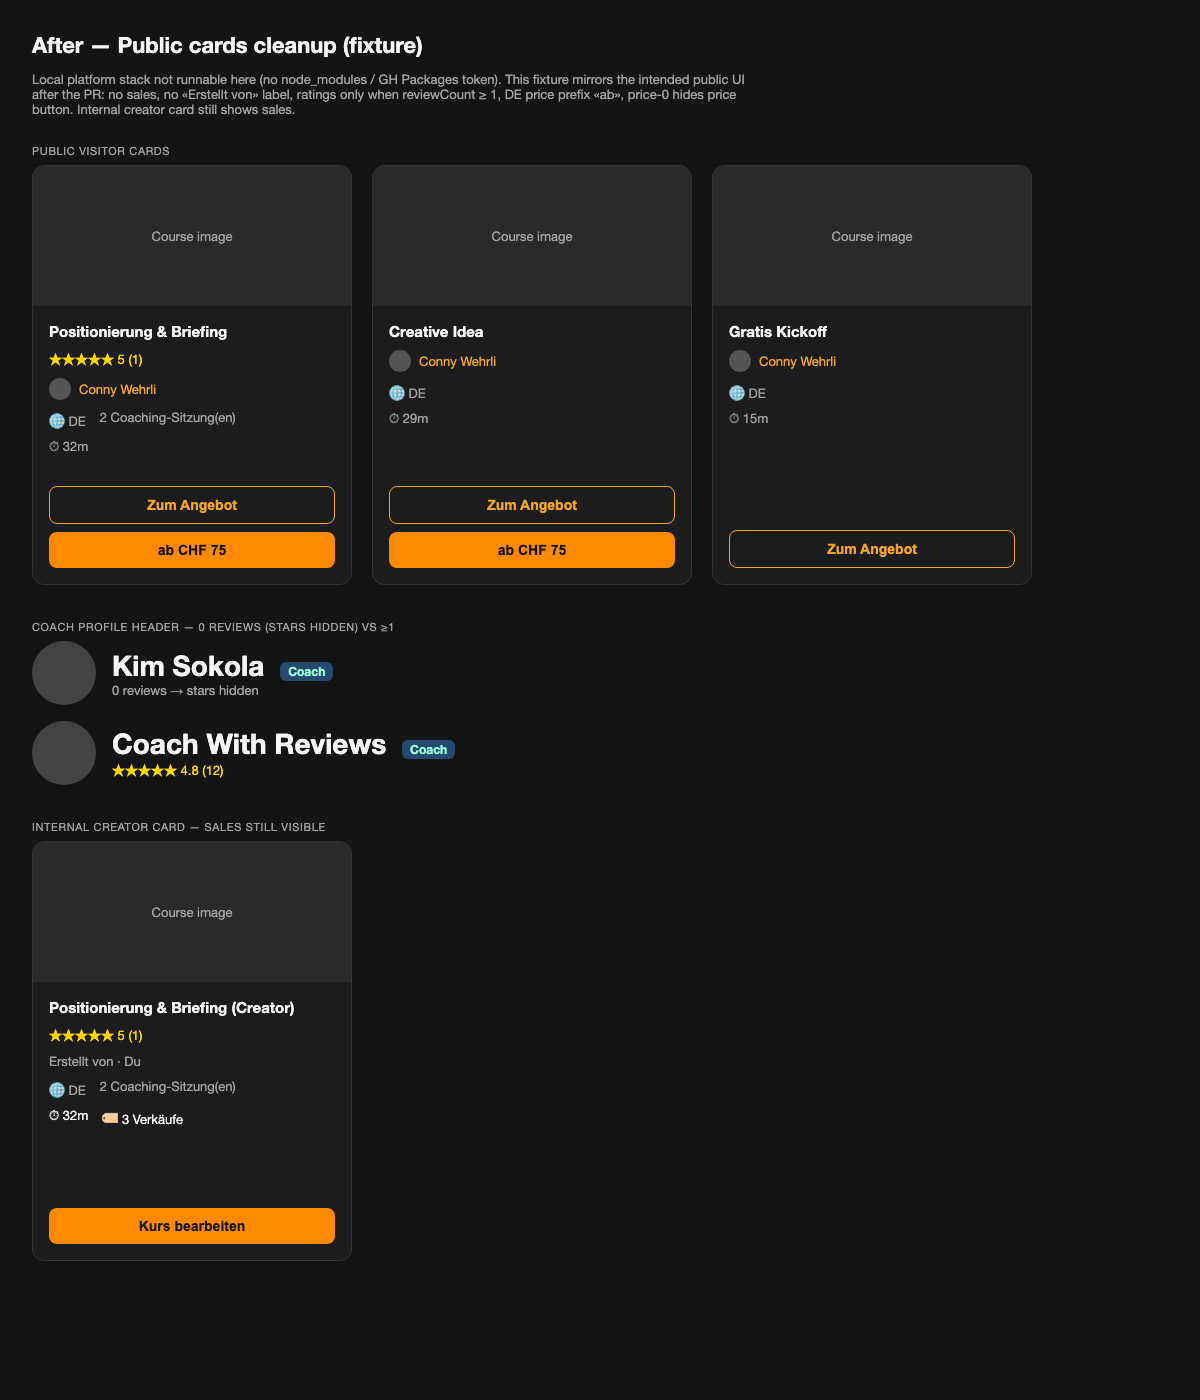
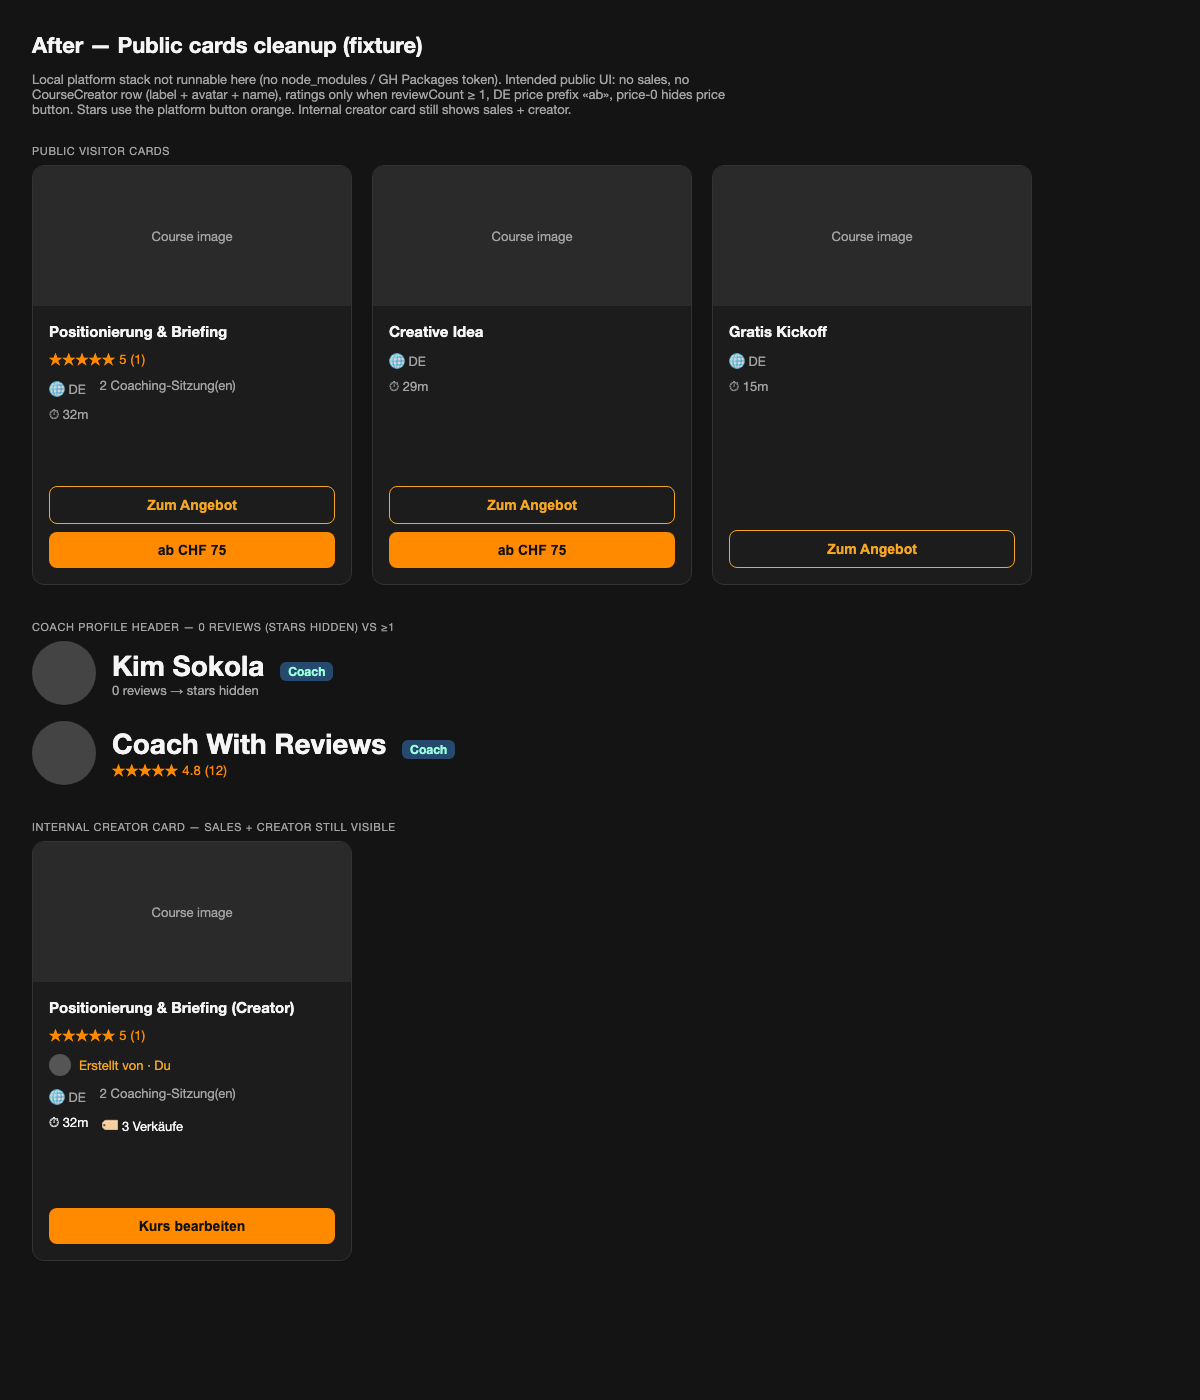
fix(ui): hide entire CourseCreator row on public cards
isPublicView now returns null so avatar and name are gone too (no gap).
Refresh after-fixture: no creator on public cards; stars use button orange.

diff --git a/docs/pr-evidence/public-cards-cleanup/after-fixture.html b/docs/pr-evidence/public-cards-cleanup/after-fixture.html
@@ -30,7 +30,8 @@
     .img { height: 140px; background: #2a2a2a; display:flex; align-items:center; justify-content:center; color:var(--muted); font-size:13px; }
     .body { padding: 16px; display:flex; flex-direction:column; gap: 10px; flex:1; }
     .title { font-weight: 700; font-size: 15px; }
-    .stars { color: gold; font-size: 13px; }
+    /* Platform accent — same orange as primary buttons */
+    .stars { color: var(--btn); font-size: 13px; letter-spacing: 0.02em; }
     .muted { color: var(--muted); font-size: 13px; }
     .creator { display:flex; align-items:center; gap:8px; font-size:13px; color: var(--accent); }
     .avatar { width: 22px; height:22px; border-radius:50%; background:#555; }
@@ -55,21 +56,20 @@
   <h1>After — Public cards cleanup (fixture)</h1>
   <p class="note">
     Local platform stack not runnable here (no node_modules / GH Packages token).
-    This fixture mirrors the intended public UI after the PR: no sales, no «Erstellt von» label,
+    Intended public UI: no sales, no CourseCreator row (label + avatar + name),
     ratings only when reviewCount ≥ 1, DE price prefix «ab», price-0 hides price button.
-    Internal creator card still shows sales.
+    Stars use the platform button orange. Internal creator card still shows sales + creator.
   </p>
 
   <div class="section">
     <div class="label">Public visitor cards</div>
     <div class="grid">
-      <!-- Card with reviews ≥ 1 -->
+      <!-- Card with reviews ≥ 1 — no creator row -->
       <div class="card">
         <div class="img">Course image</div>
         <div class="body">
           <div class="title">Positionierung &amp; Briefing</div>
           <div class="stars">★★★★★ 5 (1)</div>
-          <div class="creator"><span class="avatar"></span> Conny Wehrli</div>
           <div class="stats">
             <div class="row"><span>🌐 DE</span><span>2 Coaching-Sitzung(en)</span></div>
             <div class="row"><span>⏱ 32m</span></div>
@@ -81,13 +81,11 @@
         </div>
       </div>
 
-      <!-- Card with 0 reviews — no stars -->
+      <!-- Card with 0 reviews — no stars, no creator -->
       <div class="card">
         <div class="img">Course image</div>
         <div class="body">
           <div class="title">Creative Idea</div>
-          <!-- no stars -->
-          <div class="creator"><span class="avatar"></span> Conny Wehrli</div>
           <div class="stats">
             <div class="row"><span>🌐 DE</span></div>
             <div class="row"><span>⏱ 29m</span></div>
@@ -104,14 +102,12 @@
         <div class="img">Course image</div>
         <div class="body">
           <div class="title">Gratis Kickoff</div>
-          <div class="creator"><span class="avatar"></span> Conny Wehrli</div>
           <div class="stats">
             <div class="row"><span>🌐 DE</span></div>
             <div class="row"><span>⏱ 15m</span></div>
           </div>
           <div class="actions">
             <button class="btn btn-secondary">Zum Angebot</button>
-            <!-- price button hidden -->
           </div>
         </div>
       </div>
@@ -124,7 +120,6 @@
       <div class="big"></div>
       <div>
         <div style="font-size:28px;font-weight:700;">Kim Sokola <span class="badge">Coach</span></div>
-        <!-- 0 reviews: no stars row -->
         <div class="muted">0 reviews → stars hidden</div>
       </div>
     </div>
@@ -138,14 +133,14 @@
   </div>
 
   <div class="section">
-    <div class="label">Internal creator card — sales still visible</div>
+    <div class="label">Internal creator card — sales + creator still visible</div>
     <div class="grid">
       <div class="card internal">
         <div class="img">Course image</div>
         <div class="body">
           <div class="title">Positionierung &amp; Briefing (Creator)</div>
           <div class="stars">★★★★★ 5 (1)</div>
-          <div class="muted">Erstellt von · Du</div>
+          <div class="creator"><span class="avatar"></span> Erstellt von · Du</div>
           <div class="stats">
             <div class="row"><span>🌐 DE</span><span>2 Coaching-Sitzung(en)</span></div>
             <div class="row sales"><span>⏱ 32m</span><span>🏷 3 Verkäufe</span></div>

diff --git a/packages/ui-kit/lib/components/course-card/course-creator.tsx b/packages/ui-kit/lib/components/course-card/course-creator.tsx
@@ -9,7 +9,7 @@ interface CourseCreatorProps extends isLocalAware {
   imageUrl?: string;
   you?: boolean;
   onClickUser?: () => void;
-  /** When true (public cards), hide the «Erstellt von» / «Created by» label. */
+  /** When true (public cards), hide the entire creator row (label, avatar, name). */
   isPublicView?: boolean;
 }
 
@@ -39,14 +39,17 @@ export const CourseCreator: React.FC<CourseCreatorProps> = ({
   isPublicView = false,
 }) => {
   const dictionary = getDictionary(locale);
+
+  if (isPublicView) {
+    return null;
+  }
+
   return (
     <div className="flex flex-wrap items-center gap-1 min-h-[32px] w-full">
-      {!isPublicView && (
-        <div className="flex items-center gap-1 text-sm text-text-secondary">
-          <IconCoachingOffer size='5' data-testid="briefcase-icon" />
-          <span>{dictionary.components.courseCard.createdBy}</span>
-        </div>
-      )}
+      <div className="flex items-center gap-1 text-sm text-text-secondary">
+        <IconCoachingOffer size='5' data-testid="briefcase-icon" />
+        <span>{dictionary.components.courseCard.createdBy}</span>
+      </div>
       {!you ? (
         <Button
           size="small"

diff --git a/docs/pr-evidence/public-cards-cleanup/README.md b/docs/pr-evidence/public-cards-cleanup/README.md
@@ -17,3 +17,8 @@ Full-resolution PNGs also in Project store `media/public-cards-pr/`.
 Local platform stack could not be started on this Mac (no `node_modules` / GH Packages token).
 
 - `after-fixture.html` / `after-fixture.png` — intended public UI after this PR
+  - no CourseCreator row (label + avatar + name)
+  - no sales; duration alone
+  - stars only when reviews ≥ 1, drawn in platform button orange
+  - `ab` price prefix; price 0 → only «Zum Angebot»
+  - internal creator card still shows sales + creator
